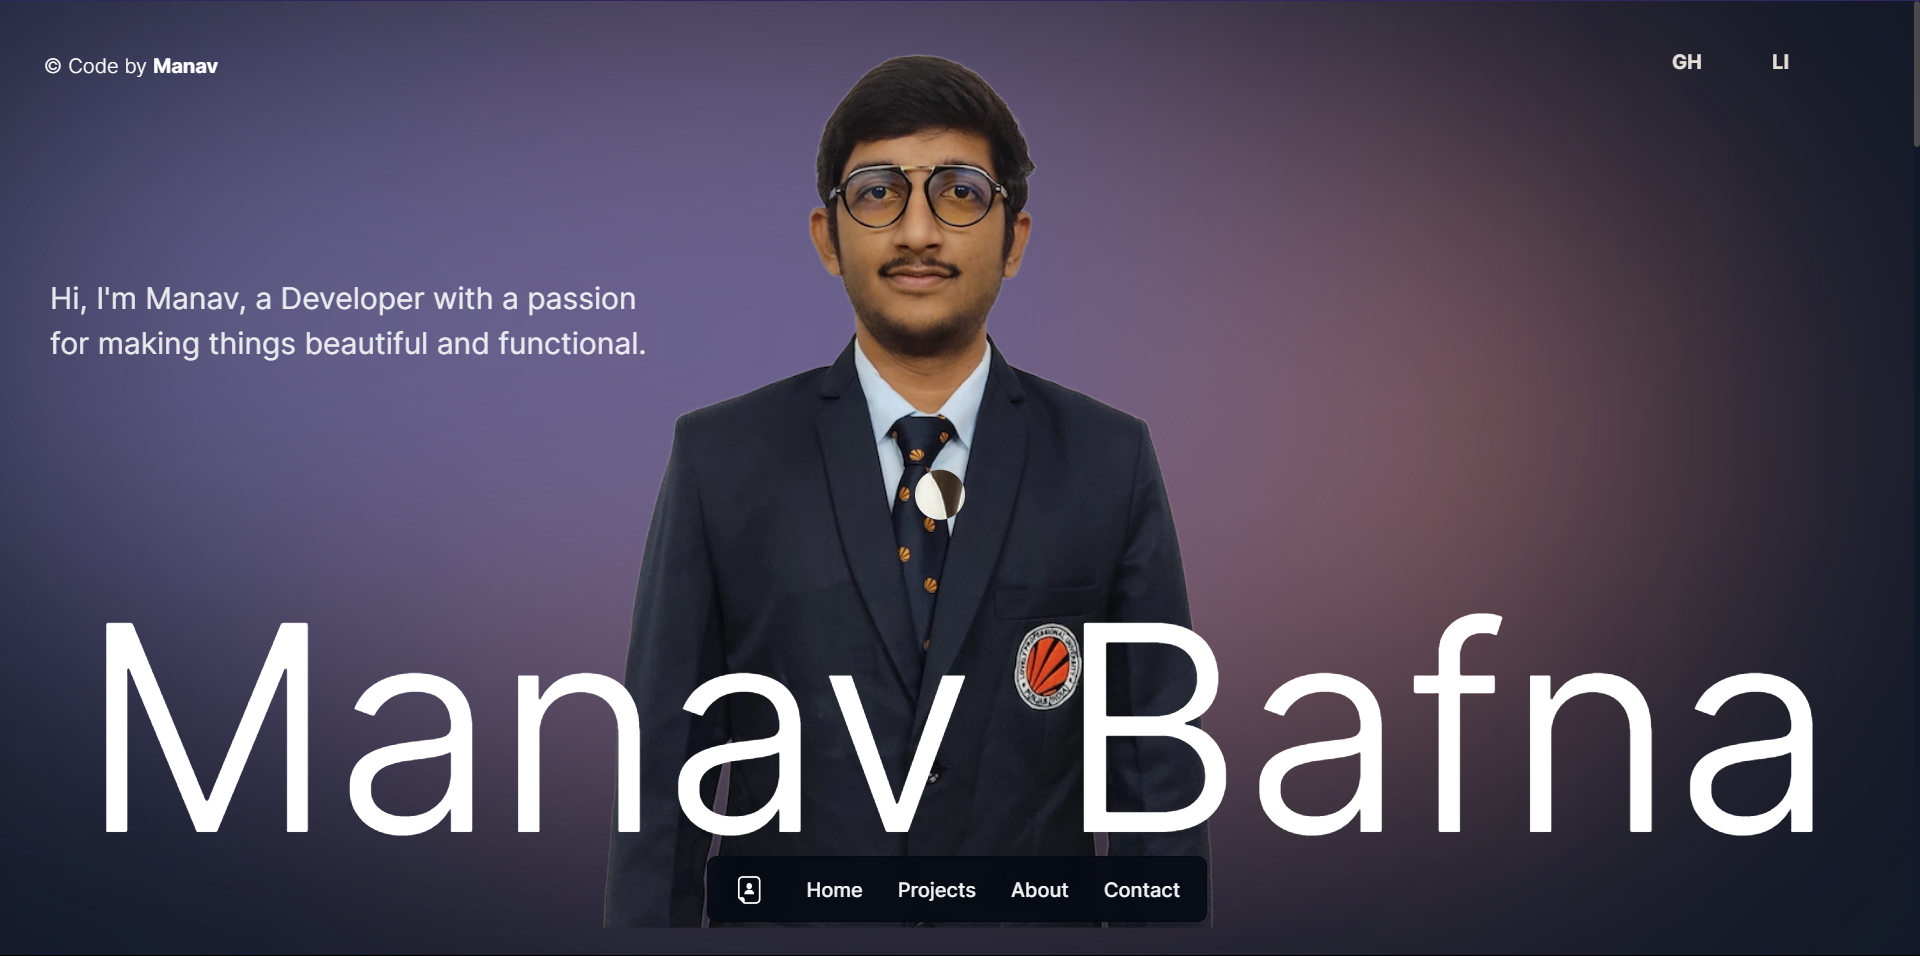
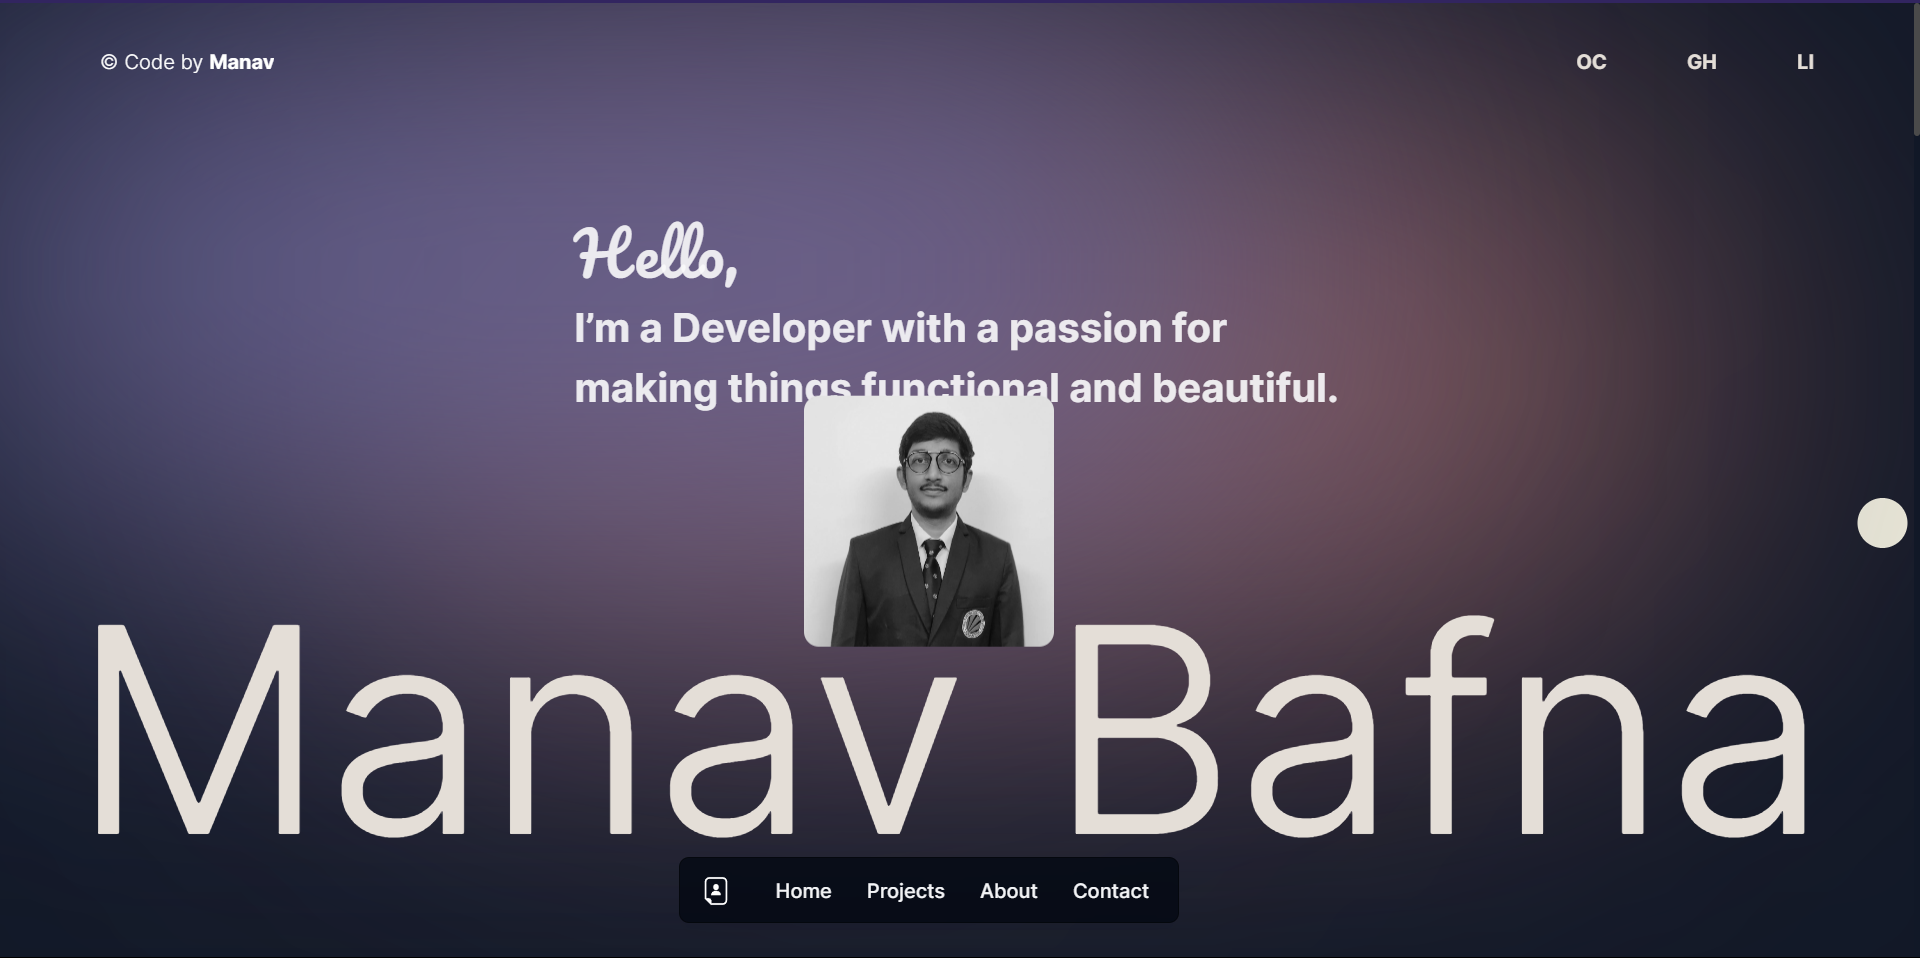
added preloader and changes in animations done

diff --git a/components/intro/intro.tsx b/components/intro/intro.tsx
@@ -24,7 +24,7 @@ export default function Intro() {
             variants={scalingAnimation}
             initial="initial"
             animate="animate">
-            <a target='_blank' data-blobity-tooltip="Oracle Certificate" aria-label='OCAJP' href='https://catalog-education.oracle.com/pls/certview/sharebadge?id=B4669534026C9F8B61F33B708D5D88B6E0FE8A3CA533469478B8009926817115'><p className="text-[16px] font-bold text-[#e4ded7] md:text-[16px]">OC</p></a>
+            <a target='_blank' data-blobity-tooltip="Oracle Certificate" aria-label='OCAJP' href='https://drive.google.com/file/d/1GXbwaNH7nG-3AlMkLs1yTfhpTqyhctlC'><p className="text-[16px] font-bold text-[#e4ded7] md:text-[16px]">OC</p></a>
             <a target="_blank" data-blobity-tooltip="GitHub" aria-label="View GitHub Profile" href="https://github.com/Manav011" ><p className="text-[16px] font-bold text-[#e4ded7] md:text-[16px]">GH</p></a>
             <a target="_blank" data-blobity-tooltip="LinkedIn" aria-label="View LinkedIn Profile" href="https://www.linkedin.com/in/manav-bafna-4a0134222" ><p className="text-[16px] font-bold text-[#e4ded7] md:text-[16px]" >LI</p></a>
         </motion.div>
@@ -33,7 +33,7 @@ export default function Intro() {
                 initial="initial" 
                 whileInView="animate" 
                 viewport={{once: true}}
-                custom={0.5}
+                custom={2.5}
             >
                 <p className={`${pacifico.className} text-left lg:text-[3rem] text-[2rem]`}>Hello,</p>
             </motion.div>
@@ -41,7 +41,7 @@ export default function Intro() {
                 initial="initial" 
                 whileInView="animate" 
                 viewport={{once: true}}
-                custom={1}
+                custom={3}
             >
                 <p className={`text-left`}>I’m a Developer with a passion for </p>
             </motion.div>
@@ -49,7 +49,7 @@ export default function Intro() {
                 initial="initial" 
                 whileInView="animate" 
                 viewport={{once: true}}
-                custom={1.5}
+                custom={3.5}
             >
                 <p className={`text-left`}>making things functional and beautiful.</p>
             </motion.div>
@@ -57,7 +57,9 @@ export default function Intro() {
         <motion.div className='flex absolute lg:top-[20rem] lg:left-[42%] md:top-[20rem] md:left-[35%] top-[23rem] left-[24%]'
             variants={imageAnimation}
             initial="initial"
-            animate="animate">
+            animate="animate"
+            custom={3}
+            >
             <ScrollParallax shouldPause>
                 <Image src={profile} alt="Manav Bafna"
                     className="w-[200px] rounded-xl grayscale hover:grayscale-0"

diff --git a/components/about/certification.tsx b/components/about/certification.tsx
@@ -1,17 +1,26 @@
 import { certificate } from '@/lib/data'
+import { motion } from 'framer-motion';
 import Image from 'next/image'
 import { ScrollParallax } from "react-just-parallax";
+import { imageAnimation } from '../animations/animations';
 
 export default function Certification() {
     return (
         <a target='_blank' data-blobity-tooltip="Click here" data-blobity-magnetic="false"
             href="https://catalog-education.oracle.com/pls/certview/sharebadge?id=B4669534026C9F8B61F33B708D5D88B6E0FE8A3CA533469478B8009926817115"
         >
-            <div className="relative  xl:w-[45rem] lg:h-[20rem] lg:w-[40rem] box-border bg-gray-900 border-[5px] border-gray-800 rounded-lg flex flex-col justify-center p-2 shadow-5xl transition-all duration-500 overflow-hidden hover:shadow-5xl hover:border-purple-400">
-                <ScrollParallax shouldPause>
-                    <Image alt="OC" src={certificate} className='relative top-[-0.5rem] lg:top-[-2rem]'/>
-                </ScrollParallax>
-            </div>
+            <motion.div variants={imageAnimation}
+                        initial="initial"
+                        whileInView="animate"
+                        viewport={{once: true}}
+                        custom={0.1}
+            >
+                <div className="relative  xl:w-[45rem] lg:h-[20rem] lg:w-[40rem] box-border bg-gray-900 border-[5px] border-gray-800 rounded-lg flex flex-col justify-center p-2 shadow-5xl transition-all duration-500 overflow-hidden hover:shadow-5xl hover:border-purple-400">
+                    <ScrollParallax shouldPause>
+                        <Image alt="OC" src={certificate} className='relative top-[-0.5rem] lg:top-[-2rem]'/>
+                    </ScrollParallax>
+                </div>
+            </motion.div>
         </a>
     )
 }

diff --git a/components/animations/animations.tsx b/components/animations/animations.tsx
@@ -7,7 +7,8 @@ export const riseWithFade = {
     y: 0,
     opacity: 1,
     transition: {
-      duration: 1,
+      duration: 1.5,
+      delay: 3,
       ease: [0.65, 0, 0.35, 1],
     },
   },
@@ -36,7 +37,7 @@ export const riseWithFade1 =  {
     y:'0em' , 
     opacity:1 , 
     transition:{
-      delay: 0.1, 
+      delay: 0.5, 
       duration: 1, 
       ease: [0.2, 0.65, 0.3, 0.9],
     },
@@ -52,6 +53,7 @@ export const scalingAnimation = {
     scale: 1,
     opacity: 1,
     transition: {
+      delay: 3,
       duration: 0.8,
       ease: [0.65, 0, 0.35, 1],
     },
@@ -63,15 +65,15 @@ export const imageAnimation = {
     opacity: 0,
     scale: 0.7,
   },
-  animate: {
+  animate: (delay1: number) => ({
     opacity: 1,
     scale: 1,
     transition: {
-      delay: 0.5,
+      delay: delay1,
       duration: 1,
       ease: [0.2, 0.65, 0.3, 0.9],
     },
-  },
+  }),
 };
 
 export const skillsAnimation = {
@@ -83,7 +85,7 @@ export const skillsAnimation = {
     opacity: 1,
     y: 0,
     transition: {
-      delay: 0.1 * index
+      delay: 0.08 * index
     }
   }),
 }
@@ -124,8 +126,8 @@ export const slideUp = {
   exit: {
       top: "-100vh",
       transition: {
-        duration: 0.8,
-        ease: [0.76, 0, 0.24, 1],
+        duration: 0.8, 
+        ease: [0.76, 0, 0.24, 1], 
         delay: 0.2
       }
   }

diff --git a/components/preloader/preloader.tsx b/components/preloader/preloader.tsx
@@ -4,7 +4,7 @@ import { useEffect, useState } from 'react';
 import { motion } from 'framer-motion';
 import { opacity, slideUp } from '@/components/animations/animations';
 
-const words = ["नमस्ते","Bonjour" , "Hello" ,"Shalom" , "Yassas" ,"Asalaam alaikum" , "Olá" ,"Konnichiwa" , "Hola" , "Ciao"]
+const words = ["राधे-राधे", "नमस्ते",  "வணக்கம்!", "నమస్కారం", "নমস্কার", "Bonjour", "Hello", "Shalom", "Ciao", "Konnichiwa"]
 
 export default function Preloader() {
     const [index, setIndex] = useState(0);
@@ -36,7 +36,7 @@ export default function Preloader() {
     }
 
     return (
-        <motion.div variants={slideUp} initial="initial" exit="exit" className={`${styles.introduction}`}>
+        <motion.div variants={slideUp} initial="initial" exit="exit" className={styles.introduction}>
             {dimension.width > 0 && 
             <>
                 <motion.p variants={opacity} initial="initial" animate="enter"><span></span>{words[index]}</motion.p>

diff --git a/app/page.tsx b/app/page.tsx
@@ -10,7 +10,7 @@ import Preloader from "@/components/preloader/preloader";
 import { AnimatePresence } from "framer-motion";
 
 export default function Home() {
-  // this is how to change the cursor 
+  
   const blobityInstance = useBlobity(initialBlobityOptions);
   const [isLoading, setIsLoading] = useState(true);
 
@@ -27,18 +27,16 @@ export default function Home() {
       left: 0,
     });
   }, []);
-  // cursor changing part will end here
 
   useEffect( () => {(
     async () => {
-        // locomotive scroll to make scroll smooth and slow
           const LocomotiveScroll = (await import('locomotive-scroll')).default
           const locomotiveScroll = new LocomotiveScroll();
+          
           setTimeout( () => {
             setIsLoading(false);
-            document.body.style.cursor = 'default'
             window.scrollTo(0,0);
-          }, 2000)
+          }, 2300)
       }
     )()
   }, [])

diff --git a/app/layout.tsx b/app/layout.tsx
@@ -26,7 +26,7 @@ export default function RootLayout({
     <html lang="en">
       <body  className={`${inter.className} h-[640vh] lg:h-[700vh] relative pt-28 sm:pt-36 bg-gray-900 text-gray-50 text-opacity-90`}>
         <div className=" fixed top-[6rem] -z-10 right-[11rem] h-[25rem] w-[25rem] rounded-full blur-[10rem] sm:w-[68.75rem] bg-[#946263]"></div>
-        <div className=" fixed top-[1rem] -z-10 left-[-35rem] h-[25rem] w-[25rem] rounded-full blur-[10rem] sm:w-[68.75rem] md:left-[-33rem] lg:left-[-28rem] xl:left-[-15rem] 2xl:left-[-5rem] bg-[#676394]"></div>
+        <div className=" fixed top-[1rem] -z-10 left-[11rem] h-[25rem] w-[25rem] rounded-full blur-[10rem] sm:w-[68.75rem] md:left-[-33rem] lg:left-[-28rem] xl:left-[-15rem] 2xl:left-[-5rem] bg-[#676394]"></div>
         {children}
         </body>
     </html>

diff --git a/components/nameanimation/nameanimation.tsx b/components/nameanimation/nameanimation.tsx
@@ -46,8 +46,8 @@ export default function Nameanimation() {
     <main className={styles.main}>
       <motion.div className={styles.sliderContainer}
         variants={riseWithFade}
-        initial={riseWithFade.initial}
-        animate={riseWithFade.animate} >
+        initial="initial"
+        animate="animate" >
         <div ref={slider} className={styles.slider}>
           <p ref={firstText}>Manav Bafna -</p> {/*—*/}
           <p ref={secondText}>Manav Bafna -</p>

diff --git a/components/logo/logo.tsx b/components/logo/logo.tsx
@@ -8,8 +8,8 @@ export default function Logo() {
   return (
     <motion.div className={sty.header}
       variants={scalingAnimation}
-      initial={scalingAnimation.initial}
-      animate={scalingAnimation.animate}
+      initial="initial"
+      animate="animate"
     >
         <div data-blobity-tooltip="Looks cool right" className={sty.logo}>
               <p className={sty.copyright}>©</p>

diff --git a/lib/data.ts b/lib/data.ts
@@ -98,7 +98,7 @@ export const skillsData = [
     {
         name: "OCAJP SE8",
         svg: badge,
-        link: "https://drive.google.com/file/d/1GXbwaNH7nG-3AlMkLs1yTfhpTqyhctlC",
+        link: "https://education.oracle.com/product/trackp_333",
     },
     {
         name: "Angular",

diff --git a/components/animations/AnimatedTitle.tsx b/components/animations/AnimatedTitle.tsx
@@ -41,7 +41,7 @@ export default function AnimatedTitle({
   const characterAnimation = {
     hidden: {
       opacity: 0,
-      y: `0.5em`,
+      y: `1em`,
     },
     visible: {
       opacity: 1,

diff --git a/components/preloader/preloader.module.scss b/components/preloader/preloader.module.scss
@@ -6,6 +6,7 @@
     justify-content: center;
     position: fixed;
     z-index: 99;
+    background-color: #111827;
     svg{
         position: absolute;
         top: 0;
